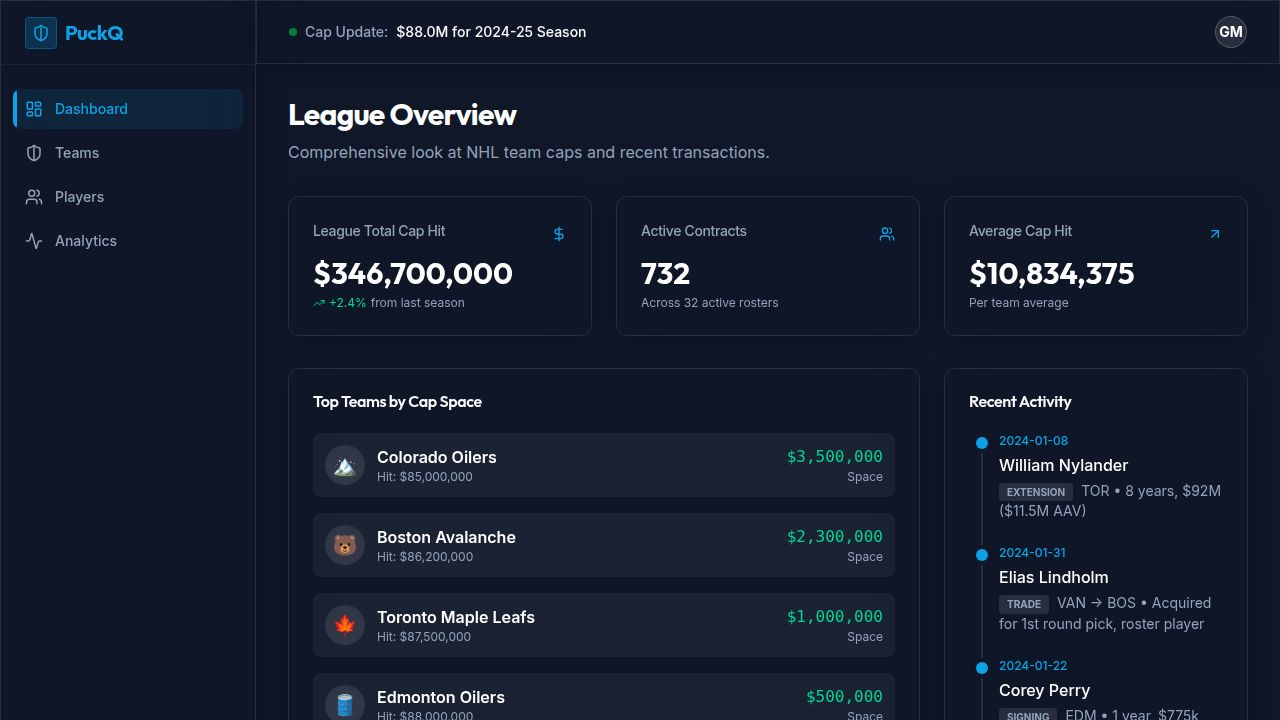
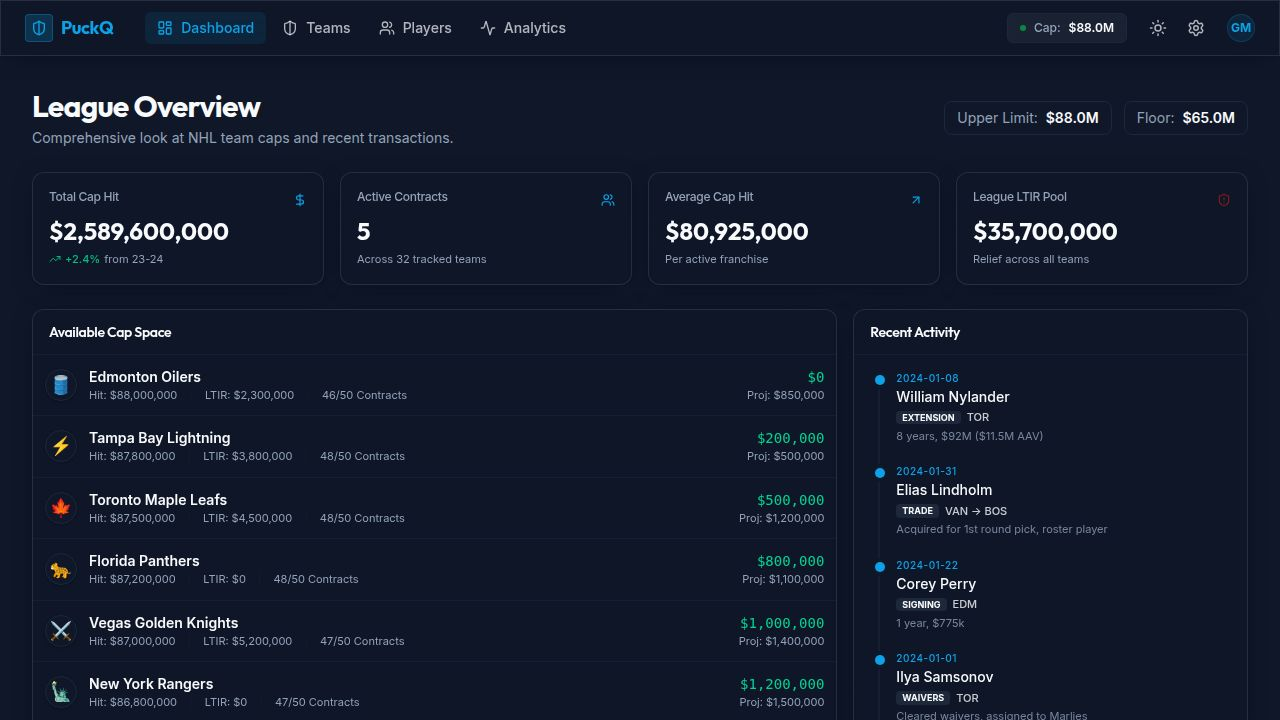
Update team cap space display and add all NHL teams
Changes the title of the cap space leaderboard to "Available Cap Space", flips the sort order to display teams from least to most available cap space, and updates the seed data to include all 32 NHL teams with their respective cap information.

Replit-Commit-Author: Agent
Replit-Commit-Session-Id: a0e3e909-d736-4eac-a21c-7eac67c84c78
Replit-Commit-Checkpoint-Type: full_checkpoint
Replit-Commit-Event-Id: aa96be36-dea4-4063-ad1d-22b280ce9413
Replit-Commit-Screenshot-Url: https://storage.googleapis.com/screenshot-production-us-central1/294f4ece-5396-4595-9768-15183811ffed/a0e3e909-d736-4eac-a21c-7eac67c84c78/3XVewCr
Replit-Helium-Checkpoint-Created: true

diff --git a/server/routes.ts b/server/routes.ts
@@ -129,10 +129,38 @@ export async function registerRoutes(
     }
 
     const seedTeams = [
-      { name: "Toronto Maple Leafs", abbreviation: "TOR", logo: "🍁", capHit: 87500000, capSpace: 1000000, projectedCapSpace: 1200000, ltir: 4500000, contracts: 48, color: "#00205B" },
-      { name: "Edmonton Oilers", abbreviation: "EDM", logo: "🛢", capHit: 88000000, capSpace: 500000, projectedCapSpace: 850000, ltir: 2300000, contracts: 46, color: "#FF4C00" },
-      { name: "Colorado Avalanche", abbreviation: "COL", logo: "🏔", capHit: 85000000, capSpace: 3500000, projectedCapSpace: 4100000, ltir: 7000000, contracts: 49, color: "#6F263D" },
-      { name: "Boston Bruins", abbreviation: "BOS", logo: "🐻", capHit: 86200000, capSpace: 2300000, projectedCapSpace: 2300000, ltir: 0, contracts: 45, color: "#FFB81C" },
+      { name: "Anaheim Ducks", abbreviation: "ANA", logo: "🦆", capHit: 69800000, capSpace: 18200000, projectedCapSpace: 19500000, ltir: 0, contracts: 44, color: "#F47A38" },
+      { name: "Arizona Coyotes", abbreviation: "ARI", logo: "🐺", capHit: 66500000, capSpace: 21500000, projectedCapSpace: 22000000, ltir: 0, contracts: 40, color: "#8C2633" },
+      { name: "Boston Bruins", abbreviation: "BOS", logo: "🐻", capHit: 86200000, capSpace: 1800000, projectedCapSpace: 2300000, ltir: 0, contracts: 45, color: "#FFB81C" },
+      { name: "Buffalo Sabres", abbreviation: "BUF", logo: "🦬", capHit: 78500000, capSpace: 9500000, projectedCapSpace: 10200000, ltir: 0, contracts: 43, color: "#002654" },
+      { name: "Calgary Flames", abbreviation: "CGY", logo: "🔥", capHit: 79200000, capSpace: 8800000, projectedCapSpace: 9100000, ltir: 0, contracts: 46, color: "#D2001C" },
+      { name: "Carolina Hurricanes", abbreviation: "CAR", logo: "🌀", capHit: 85800000, capSpace: 2200000, projectedCapSpace: 2800000, ltir: 3200000, contracts: 48, color: "#CC0000" },
+      { name: "Chicago Blackhawks", abbreviation: "CHI", logo: "🪶", capHit: 64200000, capSpace: 23800000, projectedCapSpace: 25000000, ltir: 0, contracts: 39, color: "#CF0A2C" },
+      { name: "Colorado Avalanche", abbreviation: "COL", logo: "🏔", capHit: 85000000, capSpace: 3000000, projectedCapSpace: 4100000, ltir: 7000000, contracts: 49, color: "#6F263D" },
+      { name: "Columbus Blue Jackets", abbreviation: "CBJ", logo: "⭐", capHit: 73400000, capSpace: 14600000, projectedCapSpace: 15200000, ltir: 5500000, contracts: 42, color: "#002654" },
+      { name: "Dallas Stars", abbreviation: "DAL", logo: "⭐", capHit: 86500000, capSpace: 1500000, projectedCapSpace: 1800000, ltir: 0, contracts: 47, color: "#006847" },
+      { name: "Detroit Red Wings", abbreviation: "DET", logo: "🐙", capHit: 81300000, capSpace: 6700000, projectedCapSpace: 7400000, ltir: 0, contracts: 44, color: "#CE1126" },
+      { name: "Edmonton Oilers", abbreviation: "EDM", logo: "🛢", capHit: 88000000, capSpace: 0, projectedCapSpace: 850000, ltir: 2300000, contracts: 46, color: "#FF4C00" },
+      { name: "Florida Panthers", abbreviation: "FLA", logo: "🐆", capHit: 87200000, capSpace: 800000, projectedCapSpace: 1100000, ltir: 0, contracts: 48, color: "#041E42" },
+      { name: "Los Angeles Kings", abbreviation: "LAK", logo: "👑", capHit: 84500000, capSpace: 3500000, projectedCapSpace: 4000000, ltir: 0, contracts: 46, color: "#111111" },
+      { name: "Minnesota Wild", abbreviation: "MIN", logo: "🌲", capHit: 83200000, capSpace: 4800000, projectedCapSpace: 5200000, ltir: 4200000, contracts: 45, color: "#154734" },
+      { name: "Montreal Canadiens", abbreviation: "MTL", logo: "🔴", capHit: 71800000, capSpace: 16200000, projectedCapSpace: 17000000, ltir: 0, contracts: 43, color: "#AF1E2D" },
+      { name: "Nashville Predators", abbreviation: "NSH", logo: "🎸", capHit: 84800000, capSpace: 3200000, projectedCapSpace: 3800000, ltir: 0, contracts: 46, color: "#FFB81C" },
+      { name: "New Jersey Devils", abbreviation: "NJD", logo: "😈", capHit: 82500000, capSpace: 5500000, projectedCapSpace: 6200000, ltir: 0, contracts: 44, color: "#CE1126" },
+      { name: "New York Islanders", abbreviation: "NYI", logo: "🏝", capHit: 85500000, capSpace: 2500000, projectedCapSpace: 3000000, ltir: 0, contracts: 47, color: "#00539B" },
+      { name: "New York Rangers", abbreviation: "NYR", logo: "🗽", capHit: 86800000, capSpace: 1200000, projectedCapSpace: 1500000, ltir: 0, contracts: 47, color: "#0038A8" },
+      { name: "Ottawa Senators", abbreviation: "OTT", logo: "🏛", capHit: 80100000, capSpace: 7900000, projectedCapSpace: 8500000, ltir: 0, contracts: 44, color: "#C52032" },
+      { name: "Philadelphia Flyers", abbreviation: "PHI", logo: "🟠", capHit: 76500000, capSpace: 11500000, projectedCapSpace: 12000000, ltir: 0, contracts: 43, color: "#F74902" },
+      { name: "Pittsburgh Penguins", abbreviation: "PIT", logo: "🐧", capHit: 85400000, capSpace: 2600000, projectedCapSpace: 3100000, ltir: 0, contracts: 46, color: "#FCB514" },
+      { name: "San Jose Sharks", abbreviation: "SJS", logo: "🦈", capHit: 63500000, capSpace: 24500000, projectedCapSpace: 26000000, ltir: 0, contracts: 38, color: "#006D75" },
+      { name: "Seattle Kraken", abbreviation: "SEA", logo: "🦑", capHit: 79800000, capSpace: 8200000, projectedCapSpace: 8800000, ltir: 0, contracts: 45, color: "#99D9D9" },
+      { name: "St. Louis Blues", abbreviation: "STL", logo: "🎵", capHit: 82800000, capSpace: 5200000, projectedCapSpace: 5800000, ltir: 0, contracts: 44, color: "#002F87" },
+      { name: "Tampa Bay Lightning", abbreviation: "TBL", logo: "⚡", capHit: 87800000, capSpace: 200000, projectedCapSpace: 500000, ltir: 3800000, contracts: 48, color: "#002868" },
+      { name: "Toronto Maple Leafs", abbreviation: "TOR", logo: "🍁", capHit: 87500000, capSpace: 500000, projectedCapSpace: 1200000, ltir: 4500000, contracts: 48, color: "#00205B" },
+      { name: "Vancouver Canucks", abbreviation: "VAN", logo: "🐋", capHit: 84000000, capSpace: 4000000, projectedCapSpace: 4500000, ltir: 0, contracts: 45, color: "#00205B" },
+      { name: "Vegas Golden Knights", abbreviation: "VGK", logo: "⚔", capHit: 87000000, capSpace: 1000000, projectedCapSpace: 1400000, ltir: 5200000, contracts: 47, color: "#B4975A" },
+      { name: "Washington Capitals", abbreviation: "WSH", logo: "🦅", capHit: 83500000, capSpace: 4500000, projectedCapSpace: 5000000, ltir: 0, contracts: 45, color: "#C8102E" },
+      { name: "Winnipeg Jets", abbreviation: "WPG", logo: "✈", capHit: 81000000, capSpace: 7000000, projectedCapSpace: 7500000, ltir: 0, contracts: 44, color: "#041E42" },
     ];
 
     const createdTeams = [];
@@ -140,12 +168,14 @@ export async function registerRoutes(
       createdTeams.push(await storage.createTeam(t));
     }
 
+    const teamByAbbr = (abbr: string) => createdTeams.find(t => t.abbreviation === abbr)!.id;
+
     const seedPlayers = [
-      { name: "Auston Matthews", teamId: createdTeams[0].id, position: "C", age: 26, capHit: 13250000, capPercentage: "15.1", contractLength: 4, expiryYear: 2028, draftYear: 2016, draftRound: 1, draftOverall: 1, status: "Signed" },
-      { name: "Connor McDavid", teamId: createdTeams[1].id, position: "C", age: 27, capHit: 12500000, capPercentage: "14.2", contractLength: 8, expiryYear: 2026, draftYear: 2015, draftRound: 1, draftOverall: 1, status: "Signed" },
-      { name: "Nathan MacKinnon", teamId: createdTeams[2].id, position: "C", age: 28, capHit: 12600000, capPercentage: "14.3", contractLength: 8, expiryYear: 2031, draftYear: 2013, draftRound: 1, draftOverall: 1, status: "Signed" },
-      { name: "David Pastrnak", teamId: createdTeams[3].id, position: "RW", age: 27, capHit: 11250000, capPercentage: "12.8", contractLength: 8, expiryYear: 2031, draftYear: 2014, draftRound: 1, draftOverall: 25, status: "Signed" },
-      { name: "William Nylander", teamId: createdTeams[0].id, position: "RW", age: 27, capHit: 11500000, capPercentage: "13.1", contractLength: 8, expiryYear: 2032, draftYear: 2014, draftRound: 1, draftOverall: 8, status: "Signed" },
+      { name: "Auston Matthews", teamId: teamByAbbr("TOR"), position: "C", age: 26, capHit: 13250000, capPercentage: "15.1", contractLength: 4, expiryYear: 2028, draftYear: 2016, draftRound: 1, draftOverall: 1, status: "Signed" },
+      { name: "Connor McDavid", teamId: teamByAbbr("EDM"), position: "C", age: 27, capHit: 12500000, capPercentage: "14.2", contractLength: 8, expiryYear: 2026, draftYear: 2015, draftRound: 1, draftOverall: 1, status: "Signed" },
+      { name: "Nathan MacKinnon", teamId: teamByAbbr("COL"), position: "C", age: 28, capHit: 12600000, capPercentage: "14.3", contractLength: 8, expiryYear: 2031, draftYear: 2013, draftRound: 1, draftOverall: 1, status: "Signed" },
+      { name: "David Pastrnak", teamId: teamByAbbr("BOS"), position: "RW", age: 27, capHit: 11250000, capPercentage: "12.8", contractLength: 8, expiryYear: 2031, draftYear: 2014, draftRound: 1, draftOverall: 25, status: "Signed" },
+      { name: "William Nylander", teamId: teamByAbbr("TOR"), position: "RW", age: 27, capHit: 11500000, capPercentage: "13.1", contractLength: 8, expiryYear: 2032, draftYear: 2014, draftRound: 1, draftOverall: 8, status: "Signed" },
     ];
 
     for (const p of seedPlayers) {

diff --git a/client/src/pages/Dashboard.tsx b/client/src/pages/Dashboard.tsx
@@ -108,11 +108,11 @@ export default function Dashboard() {
         <div className="lg:col-span-2 space-y-4">
           <Card className="glass-panel border-0 bg-card">
             <CardHeader className="px-4 py-3 border-b border-border/50">
-              <CardTitle className="font-display text-sm">Cap Space Leaderboard</CardTitle>
+              <CardTitle className="font-display text-sm">Available Cap Space</CardTitle>
             </CardHeader>
             <CardContent className="p-0">
               <div className="divide-y divide-border/50">
-                {[...teams].sort((a: Team, b: Team) => b.capSpace - a.capSpace).map((team: Team) => (
+                {[...teams].sort((a: Team, b: Team) => a.capSpace - b.capSpace).map((team: Team) => (
                   <div key={team.id} data-testid={`row-team-${team.id}`} className="flex items-center justify-between p-3 hover:bg-secondary/20 transition-colors">
                     <div className="flex items-center gap-3">
                       <div className="w-8 h-8 rounded-full flex items-center justify-center text-lg bg-background shadow-sm border border-border">
